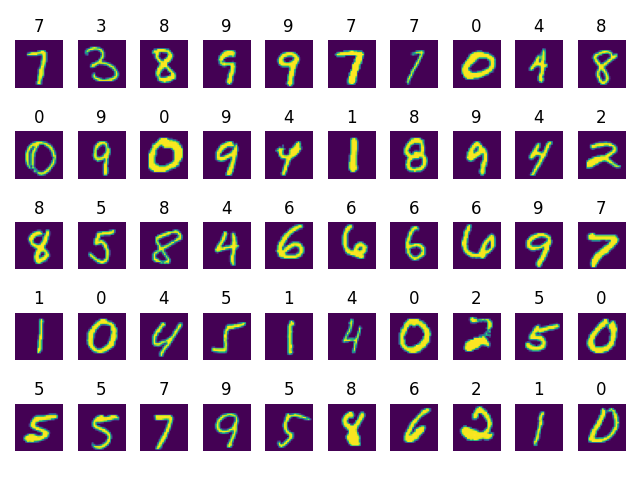
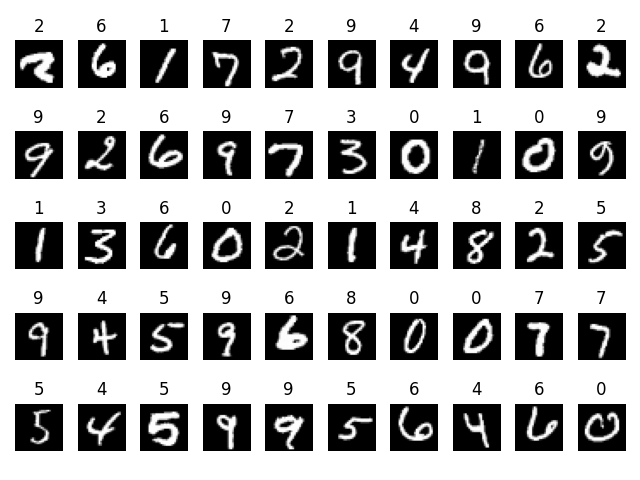
更新了一些bug

diff --git a/model_test.py b/model_test.py
@@ -14,6 +14,8 @@ test_loader=ModelUtils.get_data_loader(False,50)
 
 # 获取一批测试数据
 images, labels = next(iter(test_loader))
+print("图片张数:",images.size())
+print(images.shape)
 # # 使用模型进行预测
 with torch.no_grad():
     outputs = net(images.view(-1, 28*28))  # 将图片展平
@@ -30,7 +32,7 @@ print("准确率:",true_rate)
 # # 创建子图
 for i in range(50):
     plt.subplot(5,10,i+1)
-    plt.imshow(images[i].view(28,28))
+    plt.imshow(images[i].view(28,28),cmap="gray")
     plt.title(f"{predictions[i].item()}")
     plt.axis('off')
 plt.tight_layout()
